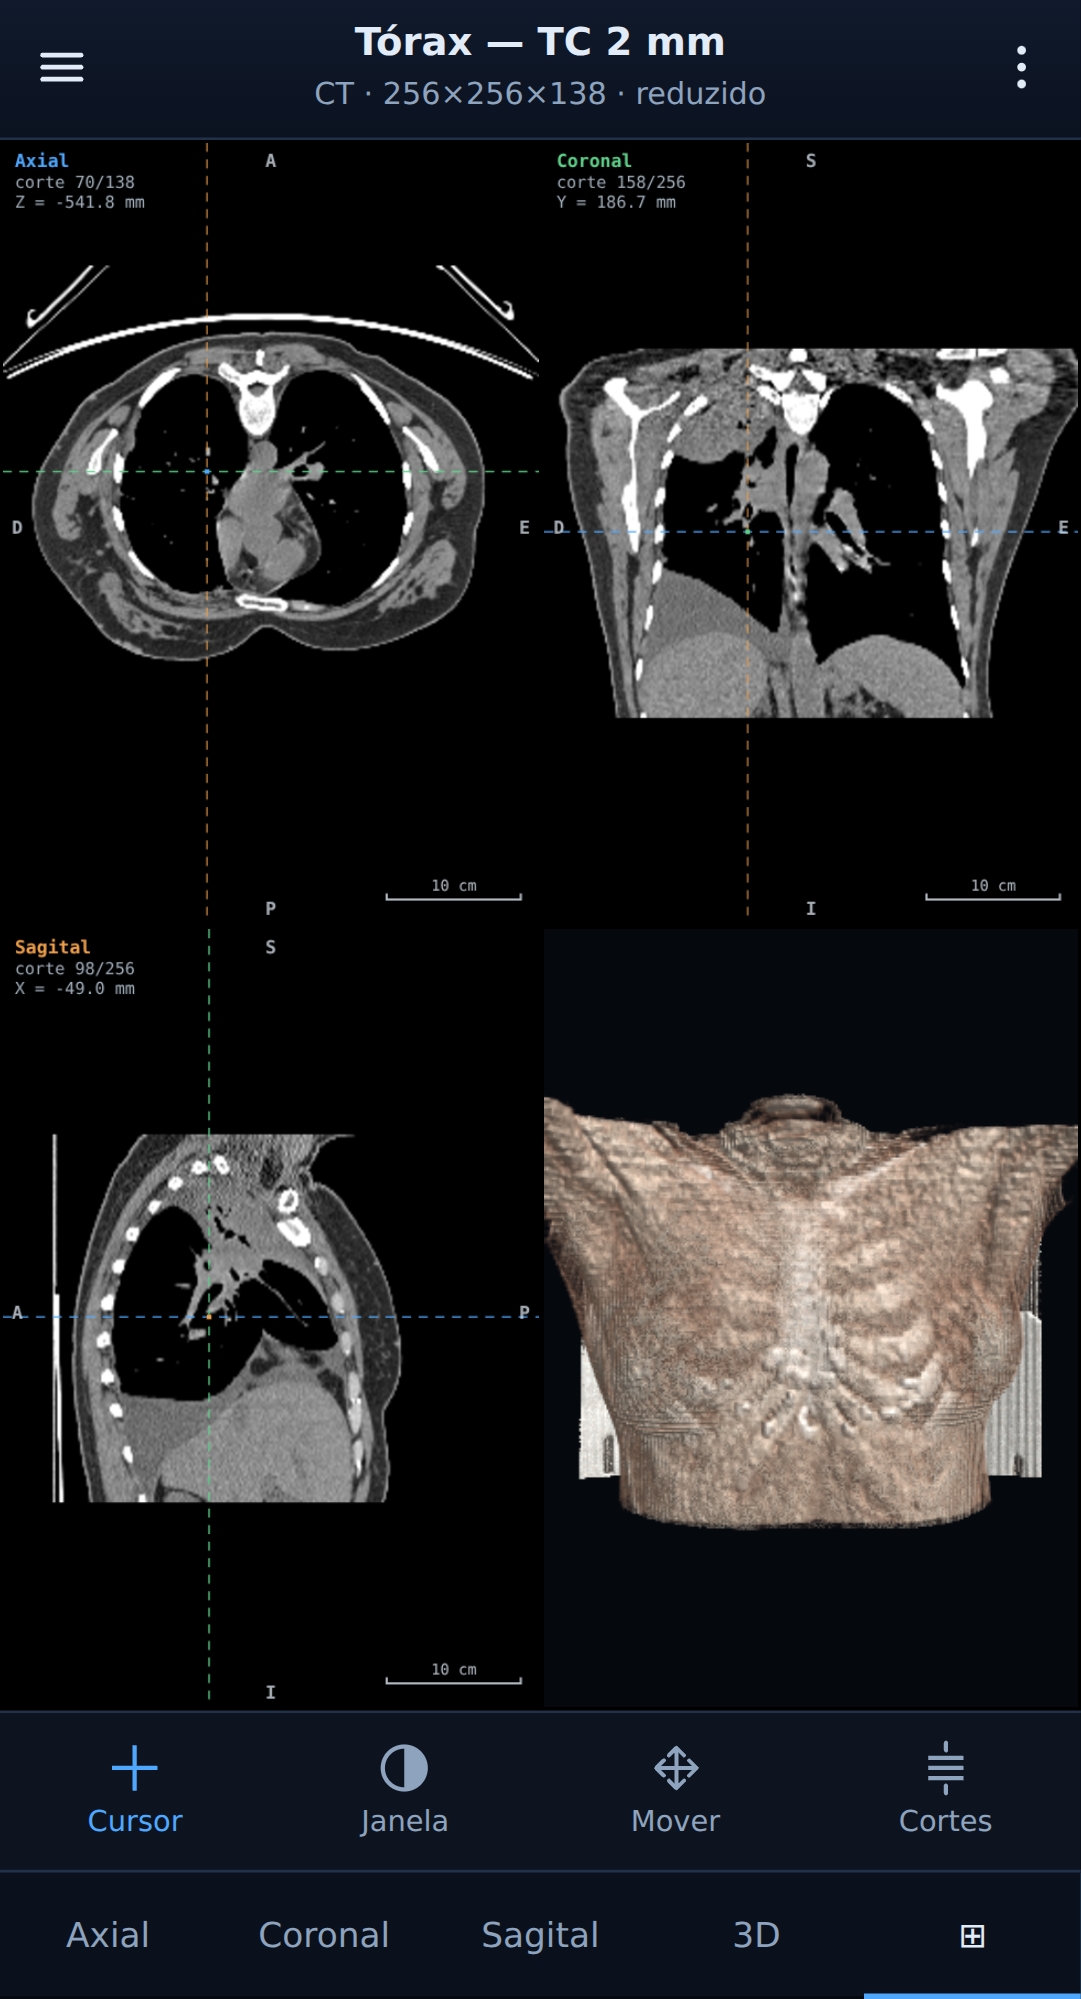
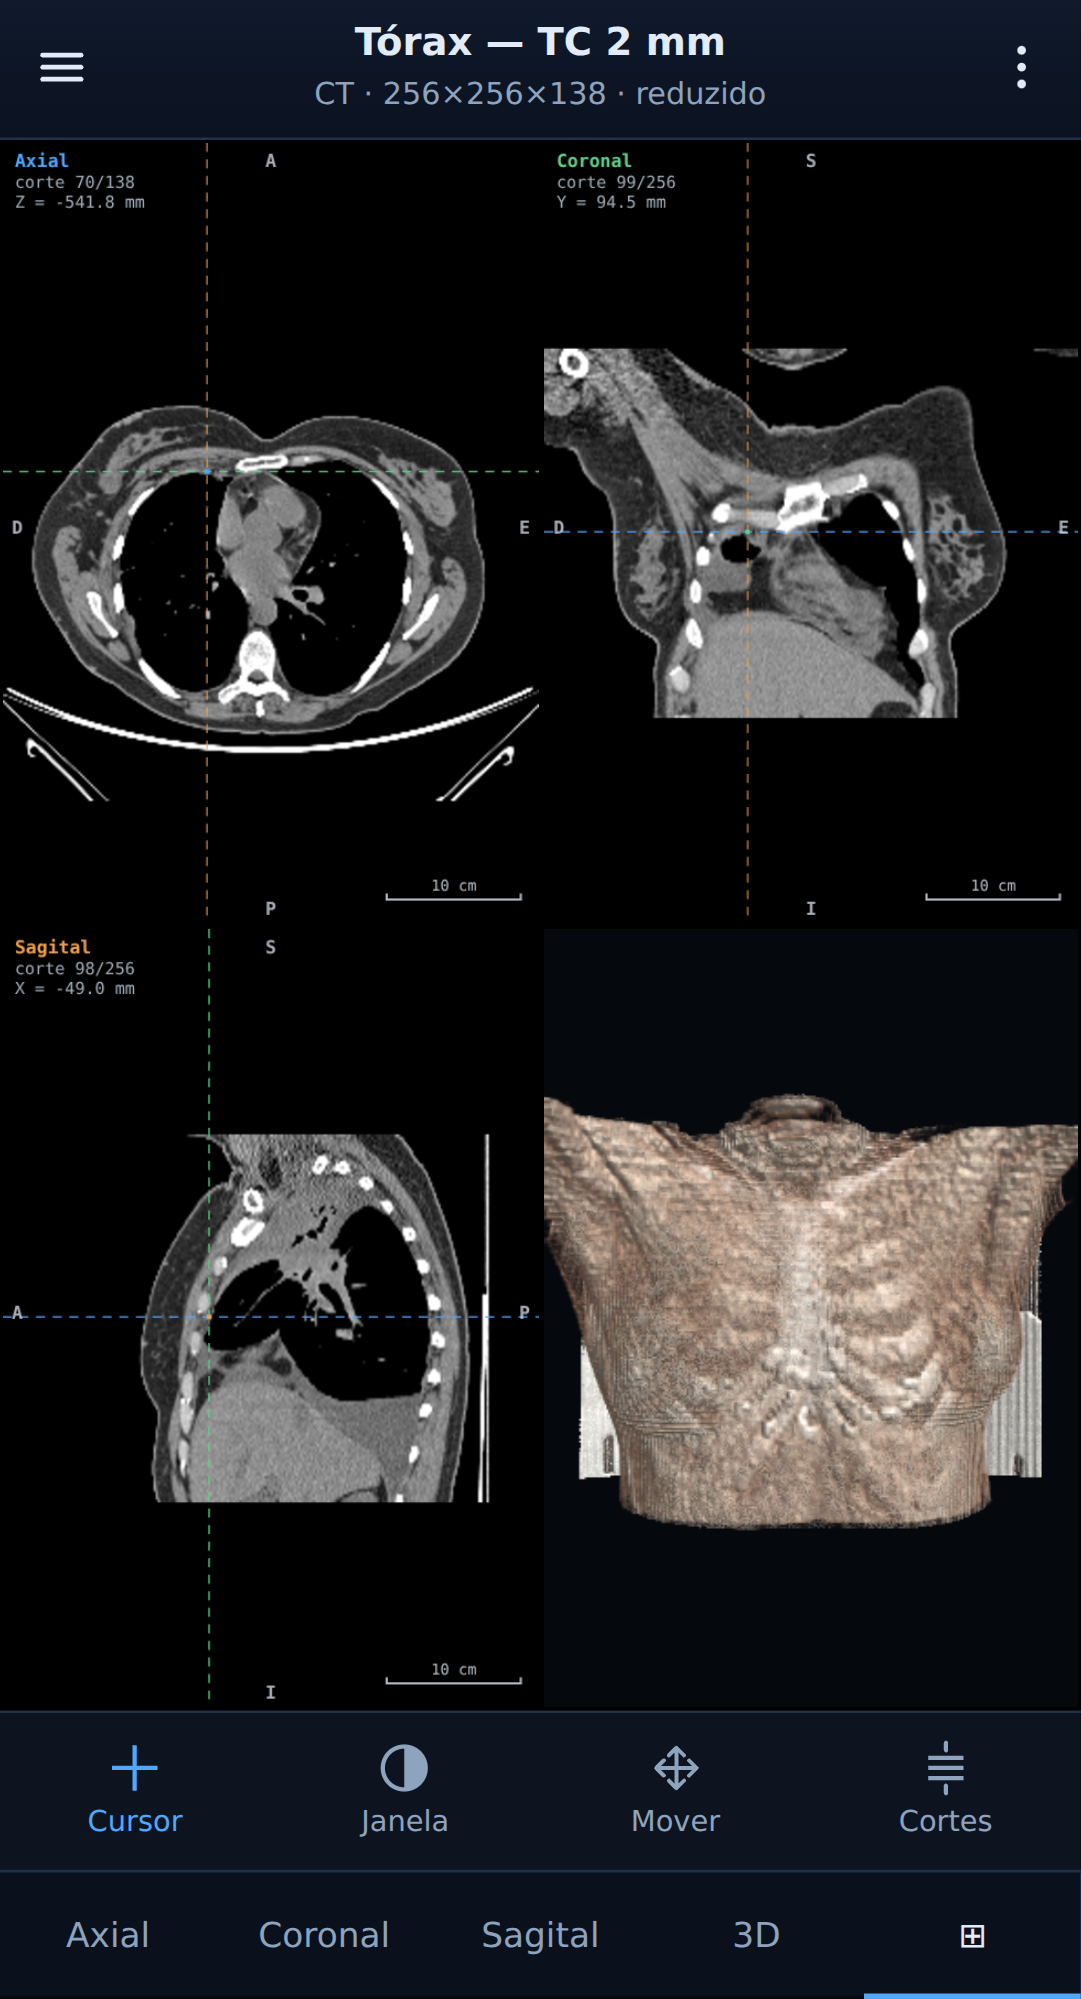
Corrige a orientação do axial e do sagital na tela
O axial saía espelhado no eixo ântero-posterior (corpo vertebral no topo,
esterno embaixo) e o sagital espelhado no eixo ântero-posterior também
(coluna à esquerda). O coronal já estava certo.

Causa: os índices do volume canônico já crescem em LPS — x para a esquerda
do paciente, y para trás, z para cima — e o buffer é preenchido sem
inversão. Só o eixo z precisa ser invertido, porque a linha do canvas cresce
para baixo enquanto z cresce para cima. As inversões extras em
axial.inverteLinha e sagital.inverteColuna viravam a imagem ao contrário.

O teste de orientação não pegava isso porque valida a montagem do volume
(o voxel está no índice certo), não o desenho. Entra test_convencao.mjs, que
renderiza a série sintética e procura o marcador de posição LPS conhecida
(esquerda, anterior, superior) nos pixels realmente desenhados, conferindo
em que canto de cada plano ele caiu. Com as inversões antigas, ele acusa
falha exatamente em axial e sagital, e aprova o coronal.

Capturas da documentação regeradas com a orientação correta.

Claude-Session: https://claude.ai/code/session_01KaiT2pjaNbZMKVPGdoSALD

Changed region(s): [[0.0, 0.1241, 1.0, 0.4032], [0.0305, 0.5583, 0.4579, 0.7754], [0.5495, 0.093, 0.6105, 0.1241]]

diff --git a/js/mpr.js b/js/mpr.js
@@ -8,37 +8,49 @@
  * Convenção radiológica: axial e coronal vistos com a esquerda do paciente à
  * direita da tela; sagital visto pela esquerda do paciente, com anterior à
  * esquerda da tela.
+ *
+ * Os índices do volume canônico já crescem em LPS — x para a esquerda do
+ * paciente, y para trás, z para cima —, e o buffer é preenchido sem inversão
+ * (coluna = índice do eixo horizontal, linha = índice do eixo vertical). Logo
+ * `inverte*` só é necessário quando o sentido anatômico desejado na tela é o
+ * OPOSTO do sentido do índice:
+ *
+ *   horizontal, x  índice cresce p/ esquerda do paciente = direita da tela  ✔
+ *   vertical,   y  índice cresce p/ trás = para baixo na tela              ✔
+ *   horizontal, y  índice cresce p/ trás = direita da tela (anterior à esq) ✔
+ *   vertical,   z  índice cresce p/ cima, mas a linha do canvas cresce para
+ *                  baixo — este é o único caso que precisa inverter.
  */
 
 export const PLANOS = {
   axial: {
     rotulo: 'Axial',
     cor: '#4fa8ff',
-    eixoFixo: 2,          // z
-    eixoColuna: 0,        // x  -> horizontal
-    eixoLinha: 1,         // y  -> vertical
+    eixoFixo: 2,           // z
+    eixoColuna: 0,         // x  -> horizontal (esquerda do paciente à direita)
+    eixoLinha: 1,          // y  -> vertical (anterior no topo)
     inverteColuna: false,
-    inverteLinha: true,   // anterior no topo
+    inverteLinha: false,
     letras: { topo: 'A', base: 'P', esq: 'D', dir: 'E' },
   },
   coronal: {
     rotulo: 'Coronal',
     cor: '#5fd08a',
-    eixoFixo: 1,          // y
-    eixoColuna: 0,        // x
-    eixoLinha: 2,         // z
+    eixoFixo: 1,           // y
+    eixoColuna: 0,         // x
+    eixoLinha: 2,          // z
     inverteColuna: false,
-    inverteLinha: true,   // superior no topo
+    inverteLinha: true,    // z cresce para cima: inverte para superior no topo
     letras: { topo: 'S', base: 'I', esq: 'D', dir: 'E' },
   },
   sagital: {
     rotulo: 'Sagital',
     cor: '#f0a04b',
-    eixoFixo: 0,          // x
-    eixoColuna: 1,        // y
-    eixoLinha: 2,         // z
-    inverteColuna: true,  // anterior à esquerda
-    inverteLinha: true,   // superior no topo
+    eixoFixo: 0,           // x
+    eixoColuna: 1,         // y  -> horizontal (anterior à esquerda)
+    eixoLinha: 2,          // z
+    inverteColuna: false,
+    inverteLinha: true,    // superior no topo
     letras: { topo: 'S', base: 'I', esq: 'A', dir: 'P' },
   },
 };

diff --git a/README.md b/README.md
@@ -122,10 +122,16 @@ o espaçamento do voxel é escalado junto, e há teste para isso.
 
 Os três planos são cortes ortogonais do mesmo volume, desenhados com o
 espaçamento físico real, então uma estrutura redonda continua redonda mesmo em
-séries anisotrópicas. A convenção é radiológica: axial e coronal com a esquerda
-do paciente à direita da tela; sagital visto pela esquerda, anterior à esquerda
-da tela. As letras de orientação (A/P/S/I/D/E) e a barra de escala aparecem em
-todos os viewports.
+séries anisotrópicas. A convenção é radiológica:
+
+| Plano | Horizontal | Vertical |
+|---|---|---|
+| Axial | esquerda do paciente à direita da tela | anterior no topo |
+| Coronal | esquerda do paciente à direita da tela | superior no topo |
+| Sagital | anterior à esquerda da tela | superior no topo |
+
+As letras de orientação (A/P/S/I/D/E) e a barra de escala aparecem em todos os
+viewports.
 
 O volume é reorientado para um sistema canônico **LPS** a partir de
 `ImageOrientationPatient` e `ImagePositionPatient`, e não da ordem dos arquivos
@@ -227,6 +233,12 @@ com o paciente espelhado — e confere que o marcador cai sempre na mesma
 coordenada anatômica. São 20 casos: cada série em resolução original e nas três
 reduções usadas no celular. Erro de 0,0 mm em resolução plena e ≤ 1 mm (metade
 de um voxel reduzido) nas versões subamostradas.
+
+`test_convencao` renderiza a série sintética e procura, nos pixels realmente
+desenhados, o marcador cuja posição LPS é conhecida (esquerda, anterior e
+superior) — conferindo que ele cai no canto certo de cada plano. É o teste que
+separa “o voxel está no índice certo” de “o voxel foi desenhado no lado certo
+da tela”.
 
 `test_sintaxes` confere que Implicit VR LE, Explicit VR BE e RLE Lossless
 produzem pixels **idênticos** à referência Explicit VR LE, e que uma série
